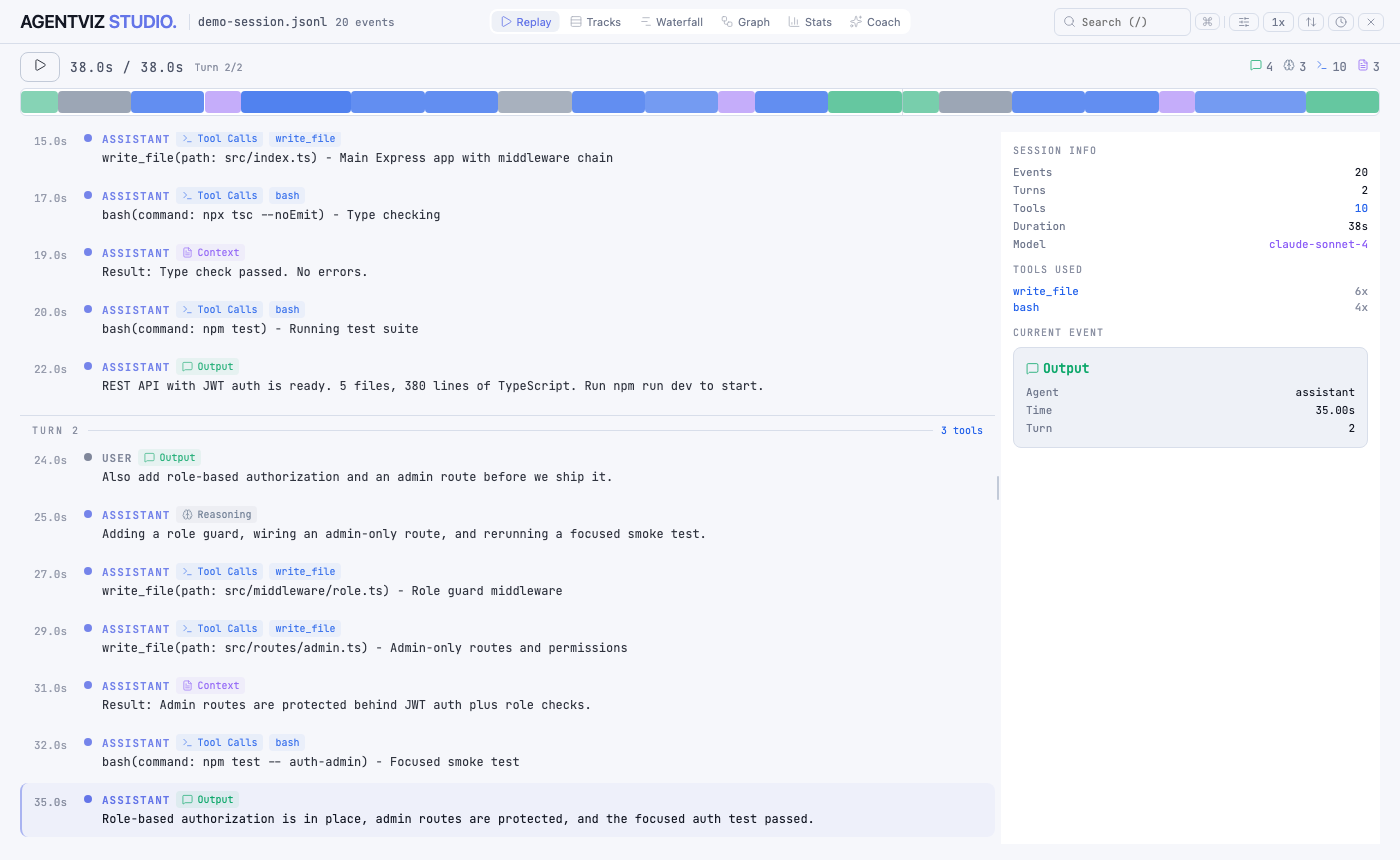
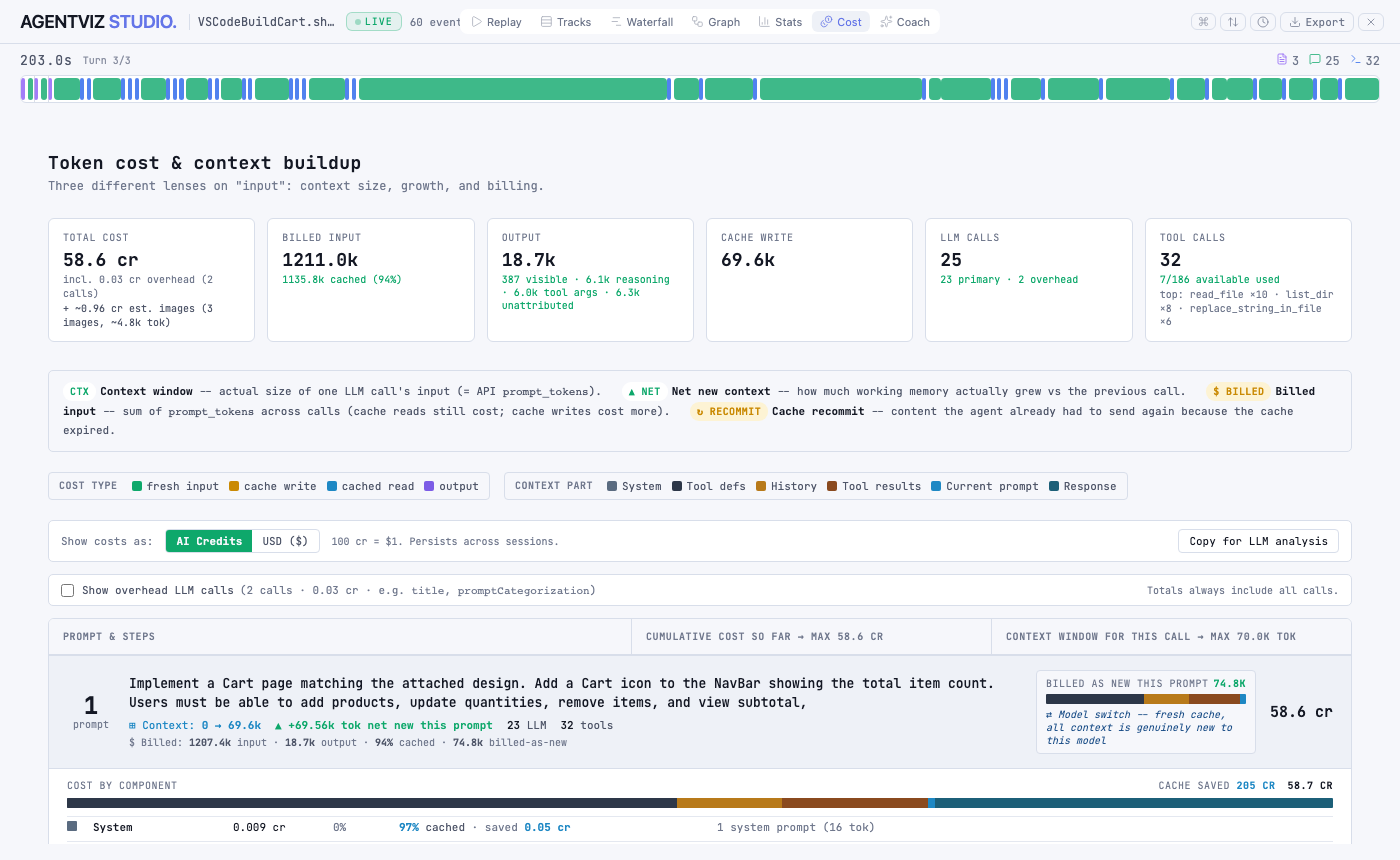
Feature Cost view in README hero
Use a sanitized Copilot export for the hero and update screenshot guidance so future artifact syncs preserve the Cost view.

diff --git a/.github/skills/sync-artifacts/SKILL.md b/.github/skills/sync-artifacts/SKILL.md
@@ -114,7 +114,7 @@ Screenshots need regeneration if **any visual change** occurred -- component cha
 
 The 8 required screenshots:
 - `landing.png` -- landing page (before loading a session)
-- `session-hero.png` -- hero image at top of README (identical to replay-view)
+- `session-hero.png` -- Cost view hero at top of README, captured from sanitized Copilot export data
 - `replay-view.png` -- main replay view
 - `tracks-view.png` -- tracks (DAW-style) view
 - `waterfall-view.png` -- waterfall view
@@ -164,7 +164,7 @@ For each artifact that needs updating, make the changes directly. Do not ask for
 
 If visual changes occurred, regenerate all 8 screenshots. Even if you think only one view changed, regenerate all of them -- theme changes affect everything.
 
-> **PRIVACY: Never capture personal session data.** Use `?demo=empty` for the landing page and "load a demo session" for all session views. No real user sessions should appear in screenshots.
+> **PRIVACY: Never capture personal session data.** Use `?demo=empty` for the landing page, "load a demo session" for standard session views, and an explicitly sanitized Copilot export for the Cost hero. No real user sessions should appear in screenshots.
 
 ### Capture workflow
 
@@ -196,31 +196,27 @@ npm run dev
    - Should already be on the Replay tab after loading demo
    - Capture screenshot
 
-4. **Session hero** (`session-hero.png`)
-   - Do NOT capture separately -- copy the replay-view PNG
-   - They must be byte-identical
-
-5. **Tracks** (`tracks-view.png`)
+4. **Tracks** (`tracks-view.png`)
    - Click the "Tracks" tab
    - Wait for track lanes to render
    - Capture screenshot
 
-6. **Waterfall** (`waterfall-view.png`)
+5. **Waterfall** (`waterfall-view.png`)
    - Click the "Waterfall" tab
    - Wait for waterfall rows to render
    - Capture screenshot
 
-7. **Graph** (`graph-view.png`)
+6. **Graph** (`graph-view.png`)
    - Click the "Graph" tab
    - Wait for ELKjs layout to complete (nodes positioned)
    - Capture screenshot
 
-8. **Stats** (`stats-view.png`)
+7. **Stats** (`stats-view.png`)
    - Click the "Stats" tab
    - Wait for metrics to render
    - Capture screenshot
 
-9. **Coach** (`coach-view.png`)
+8. **Coach** (`coach-view.png`)
    - Click the "Coach" tab
    - **Before capturing**, hide the error banner by evaluating:
      ```js
@@ -237,14 +233,17 @@ npm run dev
      ```
    - Capture screenshot
 
+9. **Cost hero** (`session-hero.png`)
+   - Load an explicitly sanitized VS Code Copilot Chat export
+   - Click the "Cost" tab
+   - Wait for the call timeline and summary cards to render
+   - Capture screenshot
+
 ### Saving screenshots
 
 Screenshots are saved directly as PNG files to `docs/screenshots/`. No SVG conversion is needed.
 
-**Critical:** Generate `session-hero.png` by copying `replay-view.png`:
-```bash
-cp docs/screenshots/replay-view.png docs/screenshots/session-hero.png
-```
+**Critical:** `session-hero.png` must show the Cost view and must use only synthetic or explicitly sanitized export data.
 
 ### Validation
 
@@ -252,8 +251,8 @@ cp docs/screenshots/replay-view.png docs/screenshots/session-hero.png
 # All 8 files exist and are non-empty
 ls -la docs/screenshots/*.png
 
-# Hero and replay are identical
-diff docs/screenshots/session-hero.png docs/screenshots/replay-view.png
+# Hero is a 1400x860 Cost view capture
+file docs/screenshots/session-hero.png
 ```
 
 ## Step 5: Final Validation
@@ -331,7 +330,7 @@ If "just check" is requested, audit all five artifacts but only report drift -- 
 ## Important Principles
 
 - **Always regenerate ALL 8 screenshots**, not just the view that changed. Theme or layout changes ripple.
-- **session-hero.png must equal replay-view.png**. This is the most common mistake.
+- **session-hero.png must show the Cost view** using only synthetic or explicitly sanitized export data.
 - **Use `?demo=empty`** for the landing page screenshot. Never capture with personal session data visible.
 - **Match existing style** when updating README/CLAUDE.md. Read the surrounding content before writing.
 - **Don't remove content** from artifacts unless the corresponding code was actually removed.

diff --git a/README.md b/README.md
@@ -4,7 +4,7 @@
 
 **See what your AI agents actually do.**
 
-Drop a Claude Code, VS Code Copilot Chat, or Copilot CLI session file and explore the agent's reasoning, tool calls, turn flow, and output through replay, tracks, waterfall, graph, and stats views. Or run it from the CLI for a live view that updates as your session unfolds.
+Drop a Claude Code, VS Code Copilot Chat, or Copilot CLI session file and explore the agent's reasoning, tool calls, turn flow, output, and measured spend through replay, tracks, waterfall, graph, stats, and cost views. Or run it from the CLI for a live view that updates as your session unfolds.
 
 [![CI](https://github.com/Jfhelin/agentviz-studio/actions/workflows/ci.yml/badge.svg)](https://github.com/Jfhelin/agentviz-studio/actions/workflows/ci.yml)
 ![React 18](https://img.shields.io/badge/React-18-61DAFB?logo=react&logoColor=white)
@@ -13,9 +13,9 @@ Drop a Claude Code, VS Code Copilot Chat, or Copilot CLI session file and explor
 
 <br />
 
-<img src="docs/screenshots/session-hero.png" alt="AGENTVIZ STUDIO session views" width="800" />
+<img src="docs/screenshots/session-hero.png" alt="AGENTVIZ STUDIO Cost view" width="800" />
 
-*Move between replay, tracks, waterfall, graph, and stats views to inspect the same session from different angles.*
+*Inspect measured token spend, cache behavior, context composition, and output attribution call by call.*
 
 </div>
 

diff --git a/.github/copilot-instructions.md b/.github/copilot-instructions.md
@@ -55,9 +55,9 @@ The README references 8 screenshot files in `docs/screenshots/`. All must be kep
      }
    });
    ```
-6. Copy `replay-view.png` to `session-hero.png` (hero reuses replay image)
+6. Load a sanitized VS Code Copilot Chat export, open **Cost**, and capture it as `session-hero.png`
 
-**Note:** `session-hero.png` is the hero image at the top of the README. It must always be regenerated alongside `replay-view.png` -- they use the same source image.
+**Note:** `session-hero.png` is the Cost view hero at the top of the README. Capture it only from synthetic or explicitly sanitized export data.
 
 ## MCP vs Dev Server
 The MCP `launch_agentviz_studio` tool serves the **production build** from `dist/` -- NOT the dev server. Changes to source code are not reflected in MCP until `npm run build` is run. Always run `npm run build` before testing via MCP, and after any code change that the user will view via `open AGENTVIZ STUDIO`.
